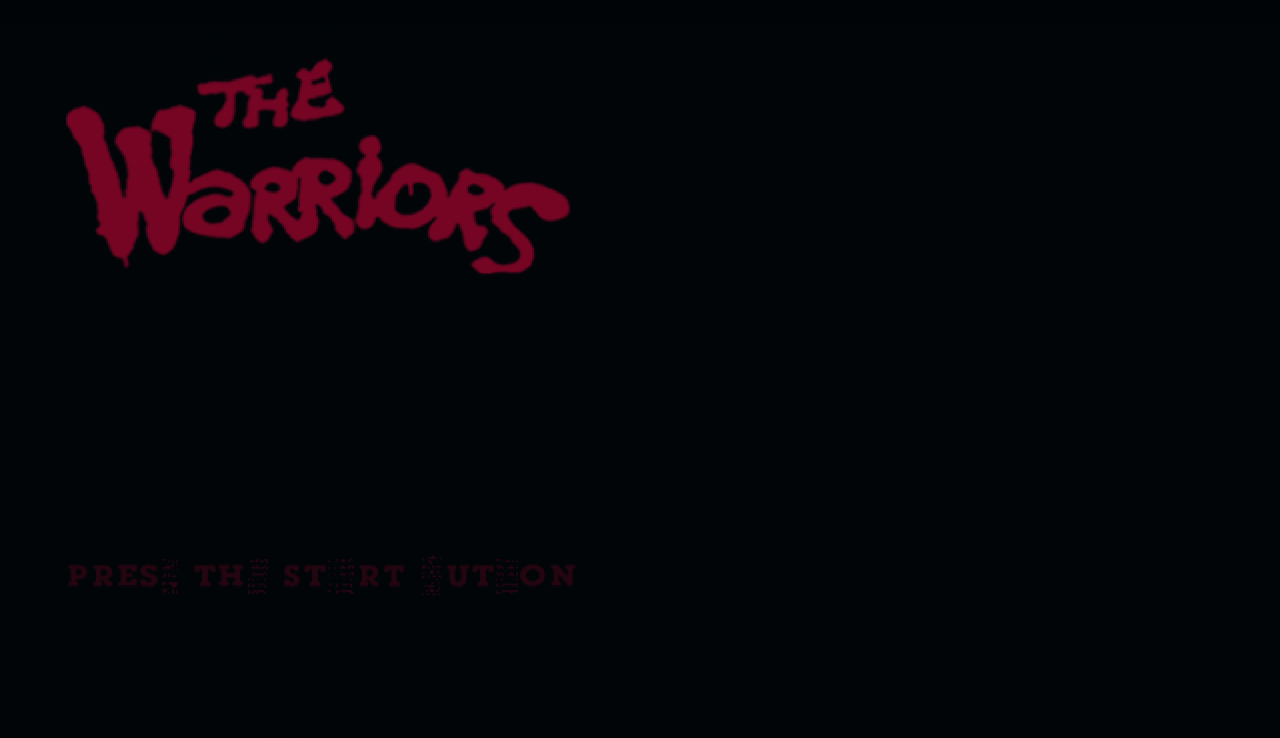
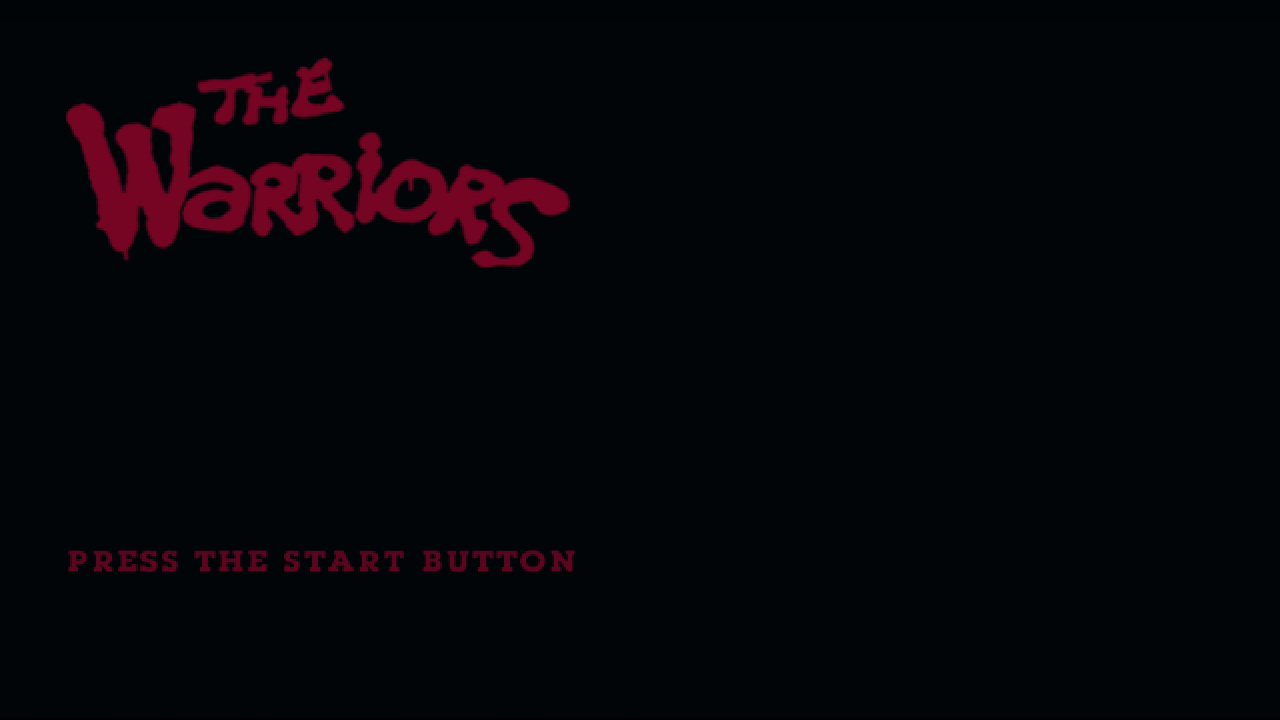
TWR-27: README — captura del titulo con el texto corregido; pendiente la noria 3D

Changed region(s): [[0.0312, 0.7639, 0.4688, 0.7944]]

diff --git a/README.md b/README.md
@@ -40,8 +40,9 @@ The game's own IOP modules run on the real IOP (no stubs).
 | ![Autosave notice](docs/screenshots/boot-03-autosave-notice.png) | ![Title screen](docs/screenshots/boot-04-title-screen.png) |
 
 > Work in progress:
-> - Colours are not final.
-> - A few title-screen glyphs are garbled.
+> - The title screen is missing its animated neon *Wonder Wheel*: the 3D geometry reaches the GS
+>   collapsed, so the 3D transform path is being worked on.
+> - The colours of the legal and autosave screens are not verified against the PS2 yet.
 > - There is no audio output yet (TWR-30).
 > - Input past the title screen is the next milestone.
 
@@ -230,7 +231,7 @@ software renderer. Logs go to `logs/warriors.log` (or `PS2X_LOGFILE=<path>`).
 | C++ recompilation | 🔍 In review | 16,262 files, build 2072/2072 passes (TWR-12) |
 | IOP (real IRX modules) | ✅ Done | `ps2xIOP` interpreter, MultiStream answers RPC `0x12345` (TWR-29) |
 | Boot | 🚧 In progress | Legal → memory card → autosave → title screen (TWR-27) |
-| Rendering | 🚧 Partial | Software renderer draws the boot screens. Colours/glyphs WIP; OpenGL path opt-in (TWR-14) |
+| Rendering | 🚧 Partial | Software renderer draws the 2D boot screens correctly. 3D (title-screen Wonder Wheel) WIP; OpenGL path opt-in (TWR-14) |
 | Audio (MultiStream + SPU2) | 🚧 Partial | Music streams inside the emulated IOP. No host output yet (TWR-30) |
 | Input | ⏳ Next | HLE of the game's own `libpad` → SDL2 (TWR-27 / TWR-18) |
 | Playable build | ⏳ Not yet | Next: main menu and a Rumble fight (TWR-27 DoD) |
